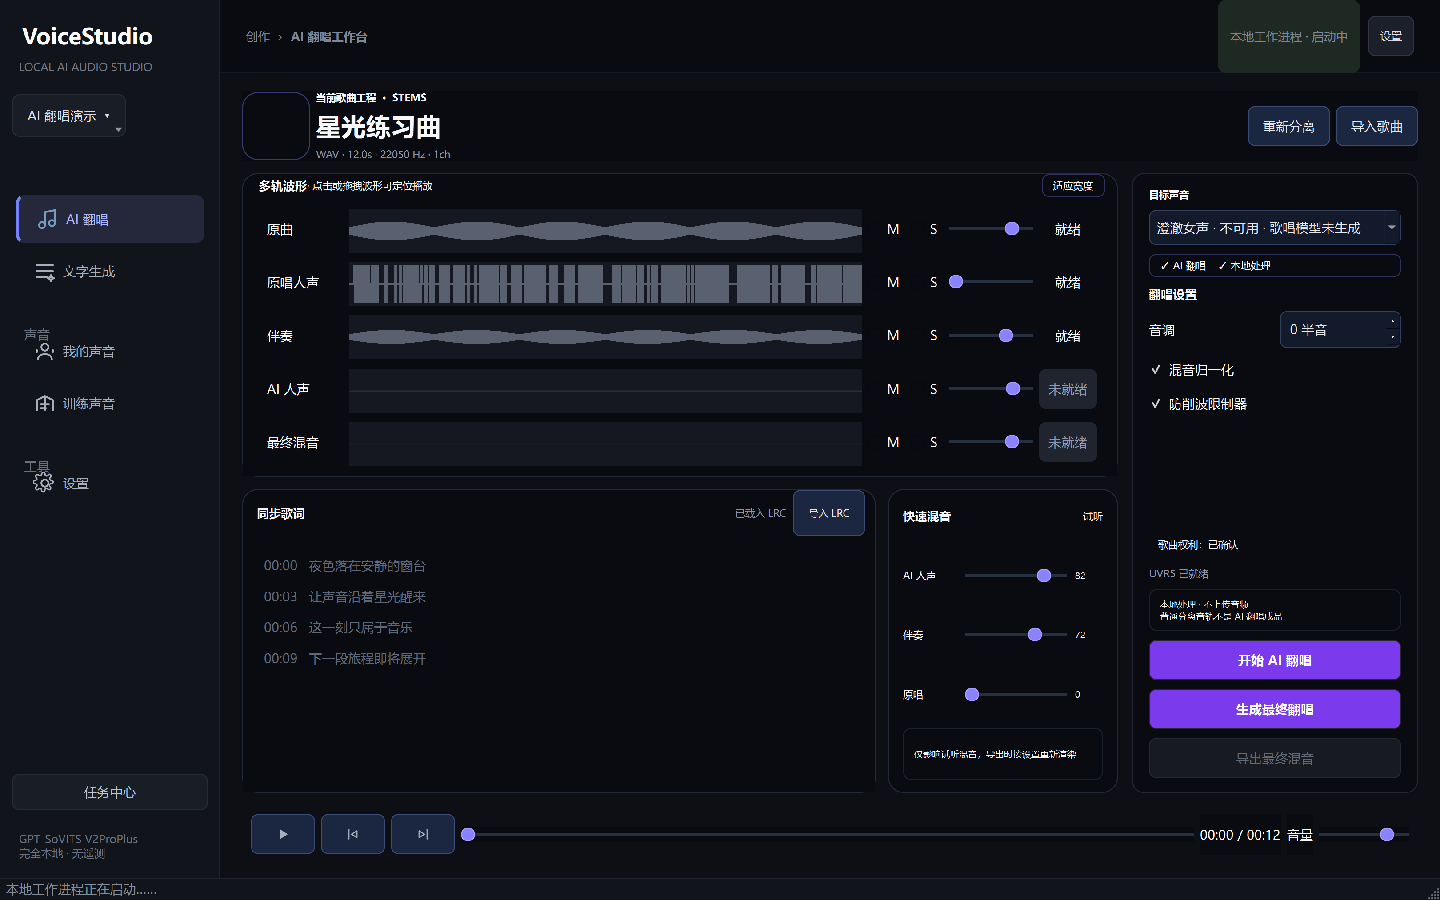
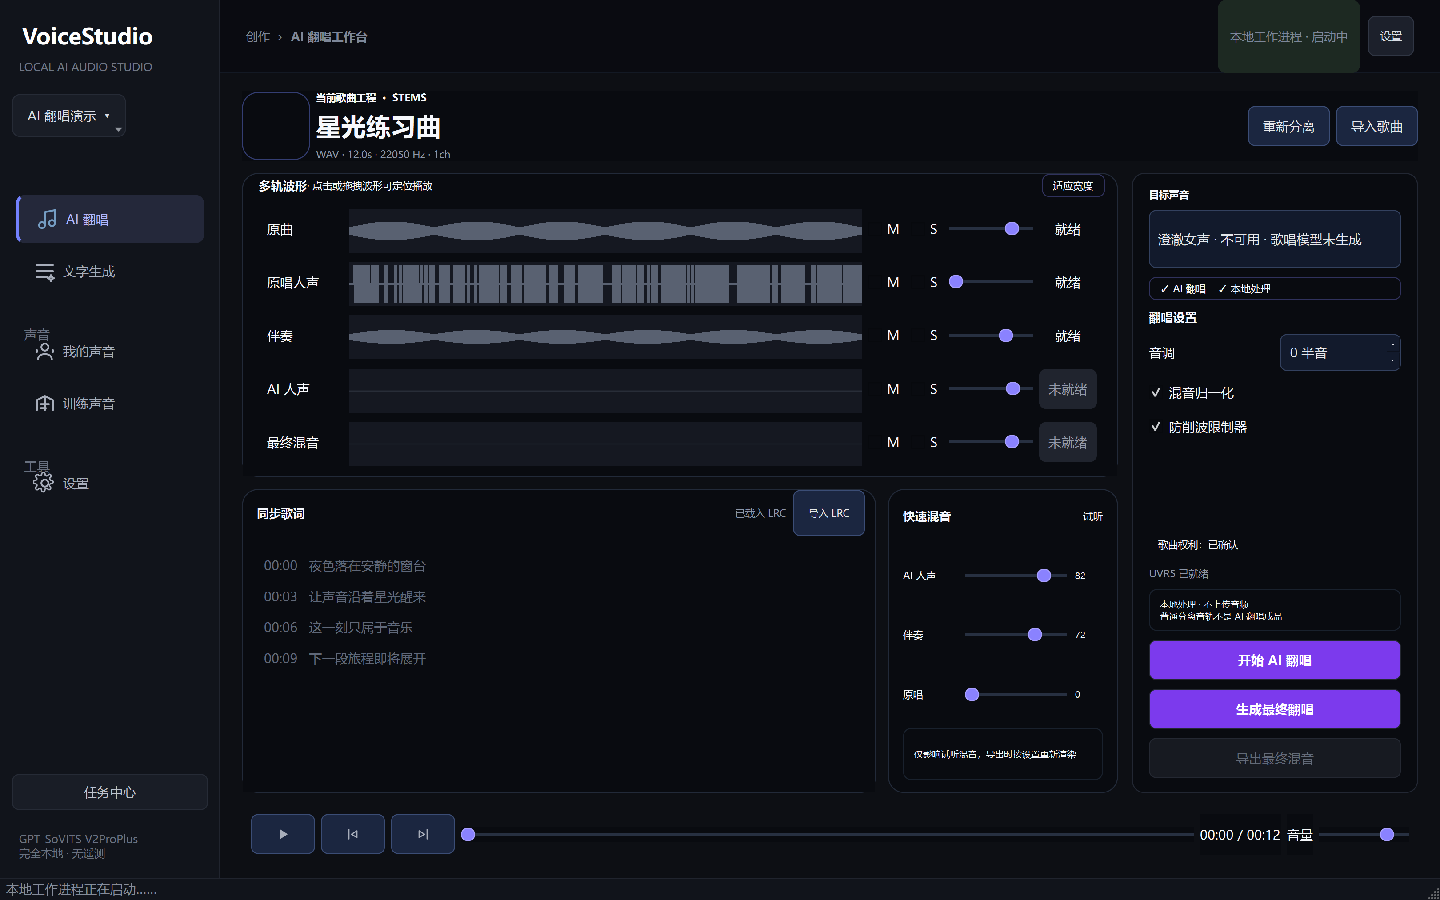
feat: present voice choices as cards

Changed region(s): [[0.7812, 0.2489, 0.9688, 0.3733], [0.875, 0.3422, 0.9688, 0.4356], [0.8125, 0.4044, 0.875, 0.4978]]

diff --git a/src/local_voice_studio/ui/studio_widgets/voice_selector.py b/src/local_voice_studio/ui/studio_widgets/voice_selector.py
@@ -1,7 +1,36 @@
 from __future__ import annotations
 
 from PySide6.QtCore import Qt, Signal
-from PySide6.QtWidgets import QComboBox, QWidget
+from PySide6.QtGui import QFont
+from PySide6.QtWidgets import QComboBox, QListView, QStyle, QStyledItemDelegate, QWidget
+
+
+class _VoiceCardDelegate(QStyledItemDelegate):
+    """Render voice choices as compact two-line cards in the popup."""
+
+    def paint(self, painter, option, index) -> None:
+        item = index.model().item(index.row())
+        if item is None:
+            return super().paint(painter, option, index)
+        painter.save()
+        if option.state & QStyle.State_Selected:
+            painter.fillRect(option.rect, "#24283A")
+        elif option.state & QStyle.State_MouseOver:
+            painter.fillRect(option.rect, "#191D26")
+        name, *details = str(item.text()).split(" · ")
+        painter.setPen("#F5F7FA" if item.flags() & Qt.ItemIsEnabled else "#626A78")
+        title_font = QFont(option.font); title_font.setBold(True)
+        painter.setFont(title_font)
+        painter.drawText(option.rect.adjusted(14, 7, -10, -24), Qt.AlignLeft | Qt.AlignVCenter, name)
+        painter.setFont(option.font)
+        painter.setPen("#9299A8" if item.flags() & Qt.ItemIsEnabled else "#555C68")
+        painter.drawText(option.rect.adjusted(14, 27, -10, -5), Qt.AlignLeft | Qt.AlignVCenter, " · ".join(details))
+        painter.restore()
+
+    def sizeHint(self, option, index):
+        size = super().sizeHint(option, index)
+        size.setHeight(max(54, size.height()))
+        return size
 
 
 class VoiceSelector(QComboBox):
@@ -12,11 +41,27 @@ class VoiceSelector(QComboBox):
             parent, project_root = project_root, None
         super().__init__(parent)
         self.project_root = project_root
+        self.setObjectName("voiceSelector")
+        self.setMinimumHeight(58)
+        self.setView(QListView())
+        self.view().setItemDelegate(_VoiceCardDelegate(self.view()))
+        self.view().setSpacing(2)
+        self.setEditable(True)
+        self.lineEdit().setReadOnly(True)
+        self.lineEdit().setObjectName("voiceSelectorValue")
         self.currentIndexChanged.connect(self._emit_if_allowed)
+        self.currentIndexChanged.connect(self._update_card_text)
 
     def _emit_if_allowed(self, index: int) -> None:
         if index >= 0 and self.model().item(index).flags() & Qt.ItemIsEnabled:
             self.voice_selected.emit(self.itemData(index))
+
+    def _update_card_text(self, index: int) -> None:
+        if index < 0:
+            self.lineEdit().clear()
+            return
+        parts = self.itemText(index).split(" · ")
+        self.lineEdit().setText("\n".join((parts[0], " · ".join(parts[1:]))))
 
     def set_profiles(self, profiles) -> None:
         self.clear()
